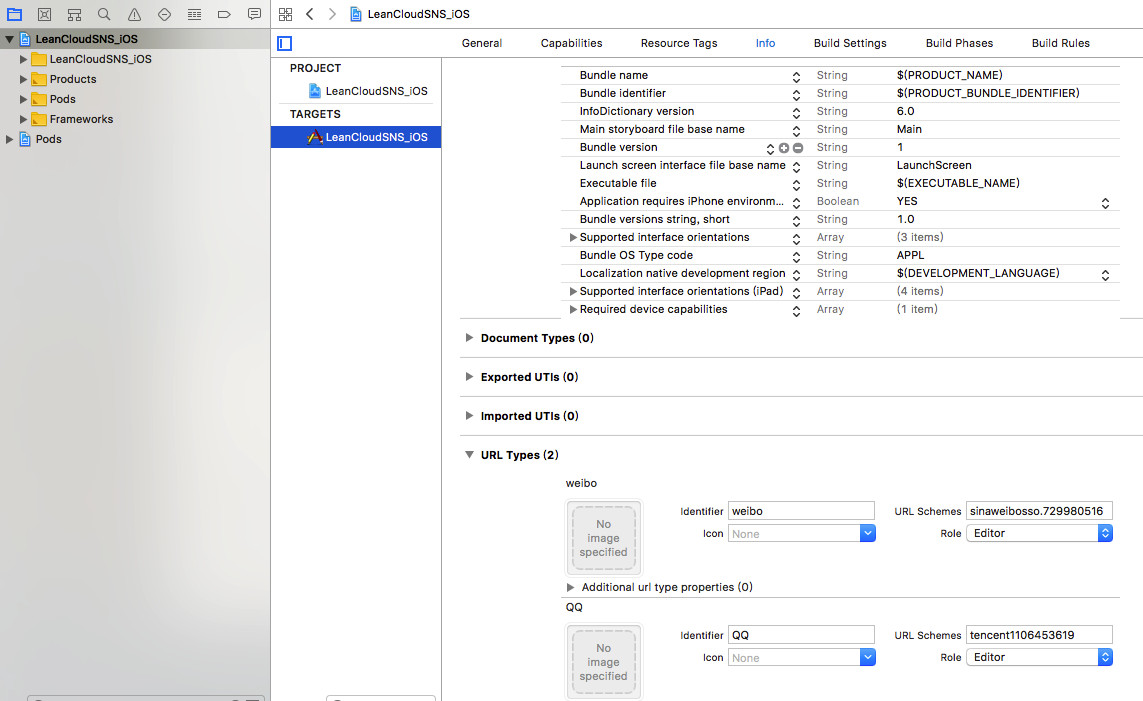
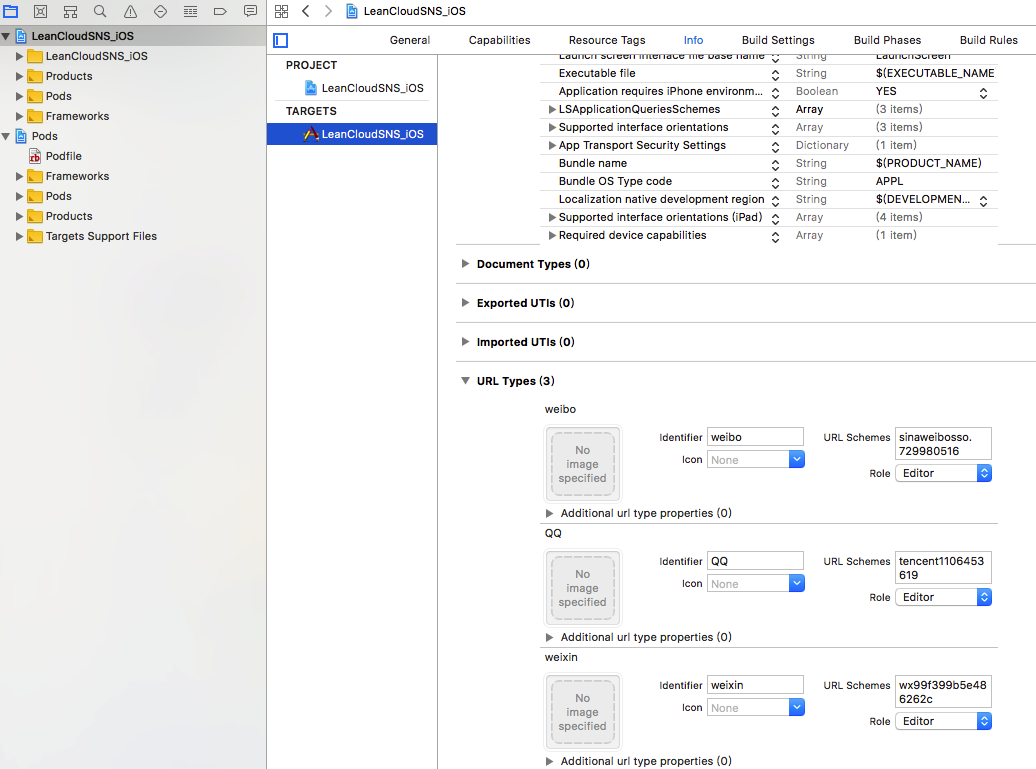
[SNS-iOS]  Add WeChat content

diff --git a/views/sns.md b/views/sns.md
@@ -28,6 +28,7 @@ pod 'LeanCloudSocial'  # 静态库方式引入，依赖 AVOSCloud 库
 
 - 新浪微博
 - 手机 QQ
+- 微信
 
 并且不需要使用各个平台官方的 SDK，保证你的应用体积的最小化。
 
@@ -45,9 +46,10 @@ pod 'LeanCloudSocial'  # 静态库方式引入，依赖 AVOSCloud 库
 
 - 微博的 URL Schemes：`sinaweibosso.<AppKey>`（注意中间有个点儿）
 - QQ 的 URL Schemes：`tencent<AppId>`
+- 微信的 URL Schemes：`<AppId>`
 
 将 `<AppKey>` 替换为微博开放平台应用的 AppKey，如 `sinaweibosso.5827301343`。
-将 `<AppId>` 替换为腾讯开放平台应用的 AppId。
+将 `<AppId>` 替换为腾讯/微信开放平台应用的 AppId。
 
 ![Url Shceme](images/sns_guide_url_scheme.png)
 
@@ -99,11 +101,14 @@ pod 'LeanCloudSocial'  # 静态库方式引入，依赖 AVOSCloud 库
 // 注册 LeanCloud 
 [AVOSCloud setApplicationId:@"<LeanCloud-AppId>" clientKey:@"<LeanCloud-AppKey>"];
 // 绑定微博
-[AVOSCloudSNS setupPlatform:AVOSCloudSNSSinaWeibo withAppKey:@"<Weibo-AppKey>" andAppSecret:@"<Weibo-AppSecret>" andRedirectURI:@""];
+[AVOSCloudSNS setupPlatform:AVOSCloudSNSSinaWeibo withAppKey:@"<Weibo-AppKey>" andAppSecret:@"<Weibo-AppSecret>" andRedirectURI:@"https://leancloud.cn/1.1/sns/callback/rye5y8v6egttht70"];
 // 绑定 QQ
-[AVOSCloudSNS setupPlatform:AVOSCloudSNSQQ withAppKey:@"<QQ-AppId>" andAppSecret:@"<QQ-AppKey>" andRedirectURI:@""];
+[AVOSCloudSNS setupPlatform:AVOSCloudSNSQQ withAppKey:@"<QQ-AppId>" andAppSecret:@"<QQ-AppKey>" andRedirectURI:nil];
+// 绑定微信
+[AVOSCloudSNS setupPlatform:AVOSCloudSNSWeiXin withAppKey:@"<WeiXin-AppId>" andAppSecret:@"<WeiXin-AppSecret>" andRedirectURI:nil];
 
 ```
+注意：redirect_uri 是在 [应用控制台 > 组件 > 社交](/dashboard/devcomponent.html?appid={{appid}}#/component/sns) 生成的**回调 URL**，QQ 和微信没有这个设置选项可以填 nil。新浪微博必填。
 
 在 `AppDelegate` 里添加:
 
@@ -143,7 +148,9 @@ pod 'LeanCloudSocial'  # 静态库方式引入，依赖 AVOSCloud 库
 } toPlatform:AVOSCloudSNSSinaWeibo];
 
 ```
-在相关应用已安装的情况下，调用 `+ (void)[AVOSCloudSNS loginWithCallback:toPlatform:]` 接口的效果是直接跳转到该应用进行 SSO 授权；如果该应用没有安装，则跳转至网页授权。我们提供了 `+ (BOOL)[AVOSCloudSNS isAppInstalledForType:]` 来让你检测相应的应用有没有安装，没有安装的话可以提示用户或者隐藏按钮。
+在相关应用已安装的情况下，调用 `+ (void)[AVOSCloudSNS loginWithCallback:toPlatform:]` 接口的效果是直接跳转到该应用进行 SSO 授权；如果该应用没有安装，QQ 和微博将跳转至网页登录。微信没有安装时，会返回错误，暂不支持微信网页登录。
+
+我们提供了 `+ (BOOL)[AVOSCloudSNS isAppInstalledForType:]` 来让你检测相应的应用有没有安装，没有安装的话可以提示用户或者隐藏按钮。
 
 ### 绑定 AVUser 
 
@@ -179,7 +186,7 @@ pod 'LeanCloudSocial'  # 静态库方式引入，依赖 AVOSCloud 库
 }
 ```
 
-这样在该方法之后，可以紧接着调用 `-[AVUser loginWithAuthData:block]`（此时不需要加 platform 参数，因为 authData 中已包含了 platform 数据）来登录 LeanCloud 账号。这样实现起来非常方便，局限是目前**仅支持微博、QQ**登录。
+这样在该方法之后，可以紧接着调用 `-[AVUser loginWithAuthData:block]`（此时不需要加 platform 参数，因为 authData 中已包含了 platform 数据）来登录 LeanCloud 账号。这样实现起来非常方便，局限是目前**仅支持微博、QQ、微信**登录。
 
 使用其他平台的 SDK（如 Facebook SDK）获取到的 authData 如果不包含 platform 键值对，就要在调用 `-[AVUser loginWithAuthData:platform:block]` 时加上 platform 这个参数来登录 LeanCloud 账号。
 
@@ -227,7 +234,10 @@ pod 'LeanCloudSocial'  # 静态库方式引入，依赖 AVOSCloud 库
 
 ### WebView 授权
 
-WebView 授权登录需要用户输入账号和密码，体验较差，我们更推荐使用 [SSO 授权](#SSO-授权) 方式登录。
+WebView 授权登录需要用户输入账号和密码，体验较差，我们更推荐使用 [SSO 授权](#SSO-授权) 方式登录。目前 WebView 授权支持如下平台：
+
+- 新浪微博
+- 手机 QQ
 
 在 [应用控制台 > 组件 > 社交](/dashboard/devcomponent.html?appid={{appid}}#/component/sns) 配置相应平台的 **应用 ID** 和 **应用 Secret Key** 。点击保存，自动生成 **回调 URL** 和 **登录 URL**。
 
